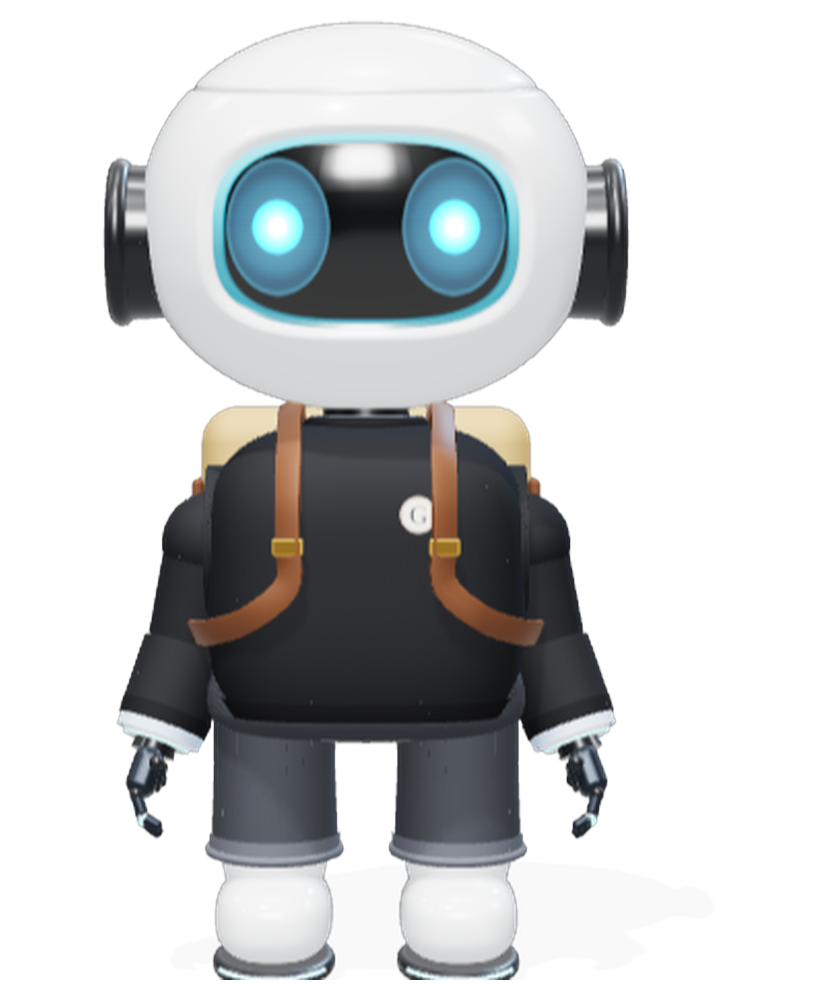
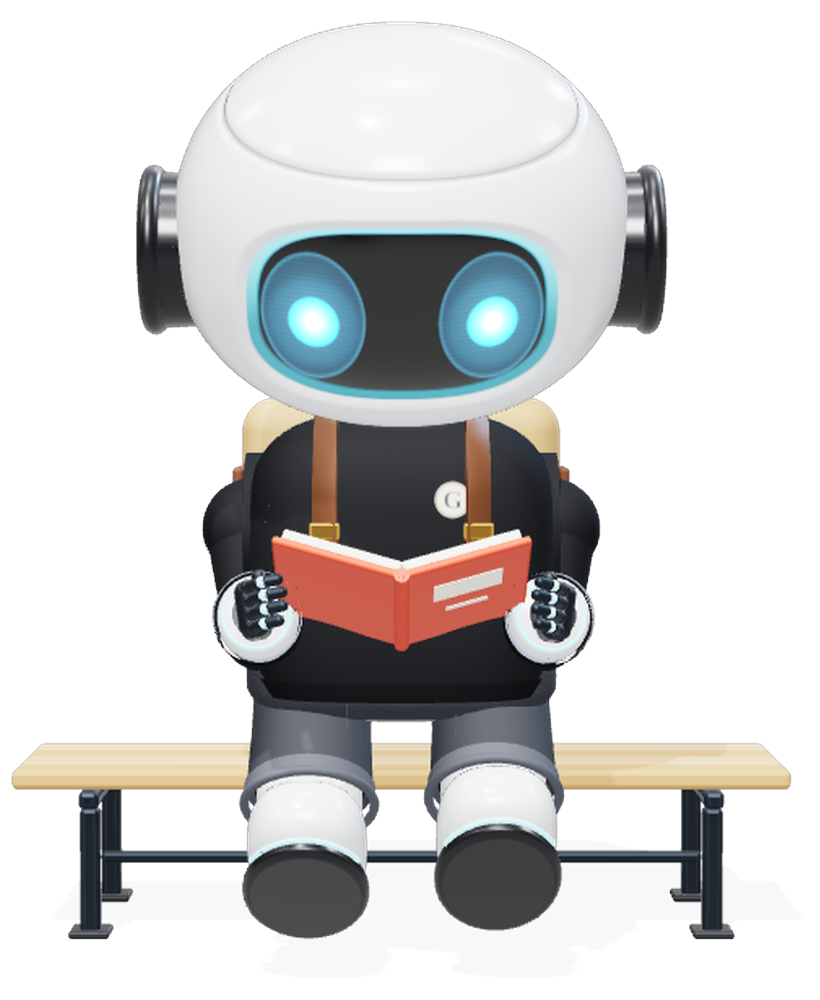
Gizmo now sits on a bench reading a book
He turns pages and glances up by himself, and looks up or waves when
clicked. The jumping and dancing moves are replaced by these calmer
ones, on the home page and in the Gizmo tool.

Claude-Session: https://claude.ai/code/session_01HN9mNrF19oo88FNATmVzzN

diff --git a/gizmo/avatar3d.js b/gizmo/avatar3d.js
@@ -1,4 +1,5 @@
 // Gizmo — real-time 3D avatar (three.js). Built from primitives, lit with a studio environment.
+// He sits on a bench reading a book: he turns pages, glances up, and looks up to wave, nod or talk.
 // API: createAvatar(el, {onClick}) -> { setState, move, look, setTalk, isBusy, dispose }
 import * as THREE from 'three';
 import { RoundedBoxGeometry } from './lib/addons/RoundedBoxGeometry.js';
@@ -77,8 +78,8 @@ export function createAvatar(el, opts = {}) {
   S.environmentIntensity = 0.85;
 
   const cam = new THREE.PerspectiveCamera(30, 1, 0.1, 100);
-  const CAM = opts.framing === 'close' ? { y: 2.05, d: 9.3, look: 1.95 } : { y: 2.4, d: 10.6, look: 2.25 };
-  cam.position.set(0, CAM.y, CAM.d);
+  const CAM = opts.framing === 'close' ? { y: 2.05, d: 9.3, look: 1.95 } : { y: 2.25, d: 9.5, look: 1.92 };
+  cam.position.set(Math.sin(opts.camAngle || 0) * CAM.d, CAM.y, Math.cos(opts.camAngle || 0) * CAM.d);
   cam.lookAt(0, CAM.look, 0);
   let camFollow = 0;
 
@@ -460,6 +461,46 @@ export function createAvatar(el, opts = {}) {
   [[0, 0, .09], [.28, .32, .14], [.62, .7, .21]].forEach(([x, y, r]) => think.add(mesh(new THREE.SphereGeometry(r, 24, 16), M.white, [x, y, 0])));
   think.visible = false;
 
+  // ----- bench and book: Gizmo sits on a bench and reads -----
+  const SEAT = .7;                                                     // top of the seat slats; his legs hang over the front edge
+  const READ = { ax: -.42, az: .34, bend: 1.36, leg: -1.05, knee: .3, tilt: .3 };   // seated pose: arms forward holding the book, legs over the edge, head down
+  const bench = new THREE.Group(); S.add(bench);
+  {
+    const wood = new THREE.MeshStandardMaterial({ color: 0xcfa671, roughness: .68 }), wood2 = new THREE.MeshStandardMaterial({ color: 0xbd9259, roughness: .72 });
+    for (let i = 0; i < 4; i++) bench.add(mesh(new RoundedBoxGeometry(3.25, .085, .185, 3, .028), i % 2 ? wood2 : wood, [0, SEAT - .043, -.69 + i * .2]));   // seat slats
+    for (const sx of [-1, 1]) {
+      bench.add(mesh(new RoundedBoxGeometry(.085, .075, .86, 3, .025), M.gun, [sx * 1.3, SEAT - .123, -.39]));                 // rail under the slats
+      for (const z of [-.74, -.04]) {
+        bench.add(mesh(new RoundedBoxGeometry(.085, SEAT - .16, .085, 3, .025), M.gun, [sx * 1.3, (SEAT - .16) / 2, z]));       // legs
+        bench.add(mesh(new RoundedBoxGeometry(.17, .03, .17, 2, .012), M.dark, [sx * 1.3, .015, z]));                          // feet
+      }
+    }
+    bench.add(mesh(new RoundedBoxGeometry(2.6, .05, .05, 2, .02), M.gun, [0, .26, -.39]));                                      // stretcher
+  }
+  // open book in his hands: placed where the hands are in the reading pose, pages tilted up towards his face
+  const book = new THREE.Group(); torso.add(book);
+  let pagePivot = null; const PAGE_OPEN = .3;
+  {
+    arms.forEach((a, i) => { a.rotation.set(READ.ax, 0, (i ? -1 : 1) * (READ.az - .18)); a.userData.fore.rotation.x = -READ.bend; });
+    root.updateMatrixWorld(true);
+    const hp = arms.map(a => torso.worldToLocal(a.userData.hand.localToWorld(new THREE.Vector3(0, -.1, 0))));
+    const mid = hp[0].clone().add(hp[1]).multiplyScalar(.5), halfW = Math.max(.3, Math.abs(hp[0].x - hp[1].x) / 2 - .035), H = .62;
+    const U = new THREE.Vector3(0, .5, .866), N = new THREE.Vector3(0, .866, -.5), X = new THREE.Vector3(-1, 0, 0);   // page-up, page-normal (towards his face), page-right
+    book.quaternion.setFromRotationMatrix(new THREE.Matrix4().makeBasis(X, U, N));
+    book.position.copy(mid).addScaledVector(U, .09).addScaledVector(N, -.02);
+    const cover = new THREE.MeshStandardMaterial({ color: 0xd4503a, roughness: .55 }), paper = new THREE.MeshStandardMaterial({ color: 0xf6f1e4, roughness: .8 }), label = new THREE.MeshStandardMaterial({ color: 0xf6efe0, roughness: .7 });
+    for (const sd of [-1, 1]) {
+      const half = new THREE.Group(); half.rotation.y = -sd * PAGE_OPEN; book.add(half);
+      half.add(mesh(new RoundedBoxGeometry(halfW, H, .034, 3, .014), cover, [sd * halfW / 2, 0, -.022]));
+      half.add(mesh(new RoundedBoxGeometry(halfW - .035, H - .055, .05, 2, .01), paper, [sd * (halfW / 2 - .008), 0, .02]));
+      if (sd < 0) { half.add(mesh(new RoundedBoxGeometry(halfW * .55, .13, .008, 2, .003), label, [sd * halfW / 2, .1, -.041])); half.add(mesh(new RoundedBoxGeometry(halfW * .34, .028, .008, 2, .003), label, [sd * halfW / 2, -.06, -.041])); }
+    }
+    book.add(mesh(new THREE.CylinderGeometry(.03, .03, H, 16), cover, [0, 0, -.026]));
+    pagePivot = new THREE.Group(); pagePivot.position.z = .05; book.add(pagePivot);
+    pagePivot.add(mesh(new RoundedBoxGeometry(halfW - .05, H - .07, .006, 1, .002), paper, [-(halfW - .05) / 2, 0, 0]));
+    pagePivot.visible = false;
+  }
+
   // collect clickable meshes
   const hitList = [];
   root.traverse(o => { if (o.isMesh) hitList.push(o); });
@@ -469,39 +510,29 @@ export function createAvatar(el, opts = {}) {
   let look = { x: 0, y: 0 }, lookS = { x: 0, y: 0 };
   let blinkT = 0, nextBlink = 2 + Math.random() * 3, wink = -1, dbl = false;
   let current = null; // {name, t0, dur, fn, resolve}
+  let upS = 0;        // smoothed "looking up from the book" amount
   const clock = new THREE.Clock();
   let T = 0; // animation time: advances at most 50ms per frame, so moves always play in full
 
   // ---------- moves: fn(p, P) writes into pose P ----------
+  // Gizmo stays seated with his book. The older jumping and dancing names are kept so existing callers still work,
+  // but they now map to calm reading gestures: turning a page, or looking up from the book with a smile.
+  const pageTurn = { dur: 1.7, fn: (p, P) => { P.page = p; } };
+  const lookUp = { dur: 2.6, fn: (p, P) => { const u = bump(p, 0, 1) ** .35; P.up = Math.max(P.up, u); P.joy = p > .22 && p < .78; P.head.z += Math.sin(p * PI * 2) * .06 * u; P.head.x += (p > .25 && p < .75 ? Math.sin((p - .25) * PI * 4) * .08 : 0); } };
   const MOVES = {
-    hop: { dur: .95, fn: (p, P) => { const j = jump(p, .16, .86); P.y += j * .85; const sq = bump(p, 0, .18) + bump(p, .84, 1); P.sy -= sq * .14; P.sx += sq * .1;
-      P.armL.z += j * 1.6; P.armR.z -= j * 1.6; P.legL.x -= j * .35; P.legR.x -= j * .35; P.joy = true; } },
-    skip: { dur: 2.0, fn: (p, P) => { const out = p < .5, q = out ? p / .5 : (p - .5) / .5; P.x += (out ? q : 1 - q) * .9;
-      P.ry += (out ? 1 : -1) * .55 * bump(q, 0, 1) ** .3; const hops = Math.abs(Math.sin(q * PI * 4)); P.y += hops * .42;
-      const k = Math.sin(q * PI * 4); P.legL.x += k * .55; P.legR.x -= k * .55; P.armL.x -= k * .7; P.armR.x += k * .7; P.joy = true; } },
-    dance: { dur: 3.2, fn: (p, P) => { const t = p * 3.2, b = Math.sin(t * PI * 2 * 1.25); const fin = bump(p, .86, 1);
-      P.ry += b * .38 * (1 - fin); P.x += Math.sin(t * PI * 1.25) * .25 * (1 - fin); P.y += Math.abs(b) * .12 + jump(p, .86, 1) * .5;
-      P.rz += b * .06; P.head.z -= b * .18; P.head.x += Math.abs(Math.cos(t * PI * 2.5)) * .12;
-      P.armL.z += (1.1 + Math.sin(t * PI * 2.5) * .8) * (1 - fin) + fin * 2.2; P.armR.z -= (1.1 + Math.cos(t * PI * 2.5) * .8) * (1 - fin) + fin * 2.2;
-      P.legL.x += Math.max(0, b) * .5; P.legR.x += Math.max(0, -b) * .5; P.joy = true; } },
-    spin: { dur: 1.3, fn: (p, P) => { P.ry += ease.io(p) * PI * 2; P.y += jump(p, .05, .95) * .55; const a = bump(p, 0, 1); P.armL.z += a * 1.3; P.armR.z -= a * 1.3; P.joy = true; } },
-    flip: { dur: 1.5, fn: (p, P) => { const crouch = bump(p, 0, .2), land = bump(p, .82, 1); P.sy -= (crouch + land) * .16; P.sx += (crouch + land) * .1;
-      const air = clamp((p - .18) / .64, 0, 1); P.y += Math.sin(air * PI) * 1.25; P.rx -= ease.io(air) * PI * 2;
-      const tuck = bump(air, 0, 1); P.legL.x -= tuck * 1.0; P.legR.x -= tuck * 1.0; P.armL.z += tuck * 2.3; P.armR.z -= tuck * 2.3; P.joy = true; } },
-    wave: { dur: 1.8, fn: (p, P) => { const up = bump(p, 0, 1) ** .4; P.armR.z -= up * 2.5; P.armR.x -= up * .2; P.foreR = Math.sin(p * PI * 6) * .5 * up;
-      P.head.z += up * .14; P.wink = 0; } },
-    shimmy: { dur: 1.4, fn: (p, P) => { const s = Math.sin(p * PI * 14) * bump(p, 0, 1) ** .3; P.ry += s * .28; P.x += s * .08; P.head.z -= s * .1; P.armL.x += s * .6; P.armR.x -= s * .6; P.joy = true; } },
-    moonwalk: { dur: 2.4, fn: (p, P) => { const q = p < .5 ? ease.io(p / .5) : 1 - ease.io((p - .5) / .5); P.x -= q * .9; P.ry += .5 * bump(p, 0, 1) ** .3;
-      const s = Math.sin(p * PI * 10); P.legL.x += Math.max(0, s) * .3; P.legR.x += Math.max(0, -s) * .3; P.footL = Math.max(0, s) * .14; P.footR = Math.max(0, -s) * .14;
-      P.rz += .04 * bump(p, 0, 1); P.armL.x += s * .3; P.armR.x -= s * .3; P.joy = true; } },
-    nod: { dur: 1.2, fn: (p, P) => { P.head.x += Math.sin(p * PI * 2) * .18 * bump(p, 0, 1); } },
-    tilt: { dur: 1.5, fn: (p, P) => { P.head.z += bump(p, 0, 1) * .28; } },
-    glance: { dur: 1.6, fn: (p, P) => { P.lookX = Math.sin(p * PI * 2) * .9; P.head.y += Math.sin(p * PI * 2) * .25; } },
+    page: pageTurn, lookup: lookUp,
+    hop: lookUp, dance: lookUp, shimmy: lookUp, spin: pageTurn, flip: pageTurn, skip: pageTurn, moonwalk: pageTurn,
+    wave: { dur: 2.2, fn: (p, P) => { const u = bump(p, 0, 1) ** .4; P.up = Math.max(P.up, u); P.armR.z -= u * 2.0; P.armR.x += u * .3; P.bendR = lerp(READ.bend, .55, u);
+      P.foreR = Math.sin(p * PI * 6) * .5 * u; P.head.z += u * .12; P.wink = u > .5 ? 0 : -1; } },
+    nod: { dur: 1.3, fn: (p, P) => { const u = bump(p, 0, 1) ** .4; P.up = Math.max(P.up, u * .85); P.head.x += Math.sin(p * PI * 2) * .16 * u; } },
+    tilt: { dur: 1.6, fn: (p, P) => { const u = bump(p, 0, 1); P.up = Math.max(P.up, u ** .4 * .85); P.head.z += u * .26; } },
+    glance: { dur: 1.8, fn: (p, P) => { const u = bump(p, 0, 1) ** .4; P.up = Math.max(P.up, u * .8); P.lookX = Math.sin(p * PI * 2) * .8; P.head.y += Math.sin(p * PI * 2) * .22; } },
   };
 
   function basePose(t) {
     return { x: 0, y: 0, rx: 0, ry: 0, rz: 0, sx: 1, sy: 1,
-      head: { x: 0, y: 0, z: 0 }, armL: { x: 0, z: 0 }, armR: { x: 0, z: 0 }, legL: { x: 0 }, legR: { x: 0 },
+      head: { x: 0, y: 0, z: 0 }, armL: { x: READ.ax, z: -READ.az }, armR: { x: READ.ax, z: READ.az }, legL: { x: READ.leg }, legR: { x: READ.leg },
+      bendL: READ.bend, bendR: READ.bend, page: 0, up: 0,                 // elbow bends, page turn 0..1, how far he looks up from the book 0..1
       foreR: 0, footL: 0, footR: 0, joy: false, wink: -1, lookX: null, lookY: null };
   }
 
@@ -520,11 +551,11 @@ export function createAvatar(el, opts = {}) {
     const P = basePose(t);
     // idle breathing + sway
     if (!reduce) {
-      P.y += Math.sin(t * 1.7) * .03;
-      P.sy += Math.sin(t * 1.7) * .008;
-      P.armL.z += Math.sin(t * 1.7) * .04; P.armR.z -= Math.sin(t * 1.7 + .4) * .04;
+      P.sy += Math.sin(t * 1.7) * .006;                                                     // breathing
+      P.legL.x += Math.sin(t * 1.35) * .09; P.legR.x += Math.sin(t * 1.35 + PI) * .09;       // feet swing gently off the bench
     }
     // states
+    if (state !== 'idle') P.up = 1;                                                          // talking, listening or thinking: eyes off the book
     if (state === 'listening') { P.head.z += .14; P.head.x -= .05; }
     if (state === 'thinking') { P.head.z -= .1; P.head.x -= .12; P.lookX = .55; P.lookY = .6; }
     if (state === 'speaking' && !reduce) { P.head.x += Math.sin(t * 9) * .035; P.head.z += Math.sin(t * 4.5) * .03; }
@@ -534,6 +565,18 @@ export function createAvatar(el, opts = {}) {
       current.fn(p, P);
       if (p >= 1) { const c = current; current = null; c.resolve(); }
     }
+    // reading by himself: every so often he turns a page, and now and then glances up
+    if (!current && !reduce && state === 'idle') {
+      const c = (t + 2.6) % 7.6; if (c > 5.7) P.page = Math.min(1, (c - 5.7) / 1.7);
+      const g = (t + 5.2) % 13.4; if (g > 10.6 && g < 12.8) P.up = Math.max(P.up, bump((g - 10.6) / 2.2, 0, 1) ** .4 * .9);
+    }
+    upS = lerp(upS, clamp(P.up, 0, 1), 1 - Math.pow(.0008, dt));
+    const rd = 1 - upS;                                                                      // 1 = head down in the book
+    P.head.x += READ.tilt * rd;
+    if (P.lookY == null) P.lookY = lerp(look.y, -.7, rd);
+    if (P.lookX == null && rd > .6 && !reduce) P.lookX = lerp(.26, -.26, (t * .42) % 1) * rd;   // eyes run along the lines
+    if (P.page > 0 && P.page < 1) { const pg = P.page; P.armR.z += bump(pg, .02, .96) * .42; P.armR.x -= bump(pg, 0, .9) * .1; P.bendR += bump(pg, 0, .9) * .24; }
+    if (pagePivot) { const pg = P.page, on = pg > .08 && pg < .97; pagePivot.visible = on; if (on) pagePivot.rotation.y = lerp(PAGE_OPEN, PI - PAGE_OPEN, ease.io(clamp((pg - .1) / .72, 0, 1))); }
     // look smoothing
     const tx = P.lookX != null ? P.lookX : look.x, ty = P.lookY != null ? P.lookY : look.y;
     lookS.x = lerp(lookS.x, tx, 1 - Math.pow(.001, dt)); lookS.y = lerp(lookS.y, ty, 1 - Math.pow(.001, dt));
@@ -551,16 +594,16 @@ export function createAvatar(el, opts = {}) {
     // knees: bend when a leg swings forward, when Gizmo crouches or lands, and to lift the heel
     const crouch = Math.max(0, 1 - P.sy) * 4;
     [[legs[0], P.legL.x, P.footL], [legs[1], P.legR.x, P.footR]].forEach(([lg, lx, lift]) => {
-      const k = .04 + Math.max(0, -lx) * 1.1 + crouch + lift * 3.2;
-      lg.userData.knee.rotation.x = lerp(lg.userData.knee.rotation.x, Math.min(k, 1.9), 1 - Math.pow(.0005, dt));
+      const k = READ.knee + (lx - READ.leg) * -.6 + crouch + lift * 3.2;                     // seated: shins hang down from the knee
+      lg.userData.knee.rotation.x = lerp(lg.userData.knee.rotation.x, clamp(k, 0, 1.9), 1 - Math.pow(.0005, dt));
     });
     // elbows, wrists and fingers: arms bend more as they rise, hands open when happy, fingers flex gently at rest
     arms.forEach((a, i) => {
       const u = a.userData, raise = Math.abs(i ? P.armR.z : P.armL.z), swing = i ? P.armR.x : P.armL.x;
-      const bend = .22 + Math.min(1.4, raise) * .32 + Math.max(0, -swing) * .3 + (reduce ? 0 : Math.sin(t * 1.7 + i) * .03);
+      const bend = (i ? P.bendR : P.bendL) + (reduce ? 0 : Math.sin(t * 1.7 + i) * .012);
       u.fore.rotation.x = lerp(u.fore.rotation.x, -bend, 1 - Math.pow(.002, dt));
       if (i === 0) u.fore.rotation.z = lerp(u.fore.rotation.z, u.sx * .12, .2);
-      const open = P.joy || (i === 1 && P.foreR !== 0);
+      const open = i === 1 && P.foreR !== 0;                                                 // only the waving hand opens; the other keeps hold of the book
       const curl = open ? .12 : .5 + (reduce ? 0 : Math.sin(t * 1.3 + i * 2) * .1);
       u.fingers.forEach((f, k) => {
         const c = lerp(f.rotation.z / -u.sx || 0, curl * (1 + k * .06), 1 - Math.pow(.003, dt));

diff --git a/index.html b/index.html
@@ -610,7 +610,7 @@ body{color:var(--ink)}
     <div class="wrap gz-wrap">
       <h2 id="trainH">Create quizzes from material to help train staff</h2>
       <div class="gz-box">
-        <div class="gz-bot" id="gzBot" role="button" tabindex="0" aria-label="Gizmo, a friendly 3D robot. Click him to make him dance."></div>
+        <div class="gz-bot" id="gzBot" role="button" tabindex="0" aria-label="Gizmo, a friendly 3D robot, sitting on a bench reading a book. Click him and he looks up."></div>
       </div>
       <a class="btn go" href="gizmo/">Open the tool</a>
       <p class="gz-note">A concept demo. It doesn&rsquo;t replace your organisation&rsquo;s mandatory training or sign-off.</p>
@@ -759,19 +759,19 @@ form.addEventListener('submit',function(e){e.preventDefault();var t=inp.value.tr
 })();
 </script>
 <script type="module">
-// Gizmo on the home page: the 3D figure loads when its box comes near the screen, waves, then runs through his moves.
+// Gizmo on the home page: the 3D figure loads when its box comes near the screen. He sits on a bench reading,
+// turns pages and glances up by himself, and looks up or waves when clicked.
 const el = document.getElementById('gzBot');
 if (el) {
-  const MOVES = ['wave', 'hop', 'dance', 'shimmy', 'flip', 'spin', 'glance'];
-  let AV = null, started = false, i = 0, timer = null;
-  const next = () => { if (!AV) return; AV.move(MOVES[i++ % MOVES.length]); };
-  const tap = () => { if (AV && !AV.isBusy()) AV.move(['dance', 'flip', 'spin', 'hop'][Math.floor(Math.random() * 4)]); };
+  const TAPS = ['wave', 'lookup', 'page'];
+  let AV = null, started = false, i = 0;
+  const tap = () => { if (AV && !AV.isBusy()) AV.move(TAPS[i++ % TAPS.length]); };
   const still = () => { const img = document.createElement('img'); img.className = 'still'; img.src = 'gizmo/gizmo-still.png'; img.alt = ''; el.appendChild(img); };
   const start = async () => {
     if (started) return; started = true;
-    try { const m = await import('./gizmo/avatar3d.js?v=20261114'); AV = m.createAvatar(el, { onClick: tap }); } catch (e) { AV = null; }
+    try { const m = await import('./gizmo/avatar3d.js?v=20261116'); AV = m.createAvatar(el, { onClick: tap }); } catch (e) { AV = null; }
     if (!AV) { still(); return; }
-    setTimeout(next, 600); timer = setInterval(() => { if (!document.hidden && !AV.isBusy()) next(); }, 4200);
+    setTimeout(() => AV.move('wave'), 700);
   };
   el.addEventListener('keydown', e => { if (e.key === 'Enter' || e.key === ' ') { e.preventDefault(); tap(); } });
   if ('IntersectionObserver' in window) { const io = new IntersectionObserver(es => { if (es.some(x => x.isIntersecting)) { io.disconnect(); start(); } }, { rootMargin: '600px 0px' }); io.observe(el); }

diff --git a/gizmo/learn.js b/gizmo/learn.js
@@ -25,7 +25,7 @@ const vsw = $('#voiceSw'); vsw.setAttribute('aria-checked', voiceOn);
 vsw.addEventListener('click', () => { voiceOn = !voiceOn; vsw.setAttribute('aria-checked', voiceOn); try { localStorage.setItem('learn.voice', voiceOn ? 'on' : 'off'); } catch (e) { } if (!voiceOn && window.speechSynthesis) speechSynthesis.cancel(); });
 ['pointerdown', 'keydown'].forEach(ev => addEventListener(ev, () => { gestured = true; }, { once: true, capture: true }));
 (async () => {
-  try { const m = await import('./avatar3d.js?v=20261114'); AV = m.createAvatar(bot, { onClick: tap, manual: !!window.__GIZMO_MANUAL }); window.__gizmoAV = AV; } catch (e) { AV = null; }
+  try { const m = await import('./avatar3d.js?v=20261116'); AV = m.createAvatar(bot, { onClick: tap, manual: !!window.__GIZMO_MANUAL }); window.__gizmoAV = AV; } catch (e) { AV = null; }
   if (!AV) { const img = document.createElement('img'); img.className = 'still'; img.src = 'gizmo-still.png'; img.alt = ''; bot.appendChild(img); bot.addEventListener('click', tap); }
   else if (!window.__GIZMO_MANUAL) setTimeout(() => move('wave'), 500);
 })();
@@ -34,10 +34,10 @@ document.addEventListener('pointermove', e => {
   if (!AV || reduce) return; const r = bot.getBoundingClientRect(); if (!r.width) return;
   AV.look((e.clientX - (r.left + r.width / 2)) / (innerWidth / 2), -(e.clientY - (r.top + r.height * .3)) / (innerHeight / 2));
 });
-const WORDS = { hop: 'Boing!', dance: 'Nailed it!', spin: 'Wheee!', flip: 'Ta-da!', wave: 'Hey there!', shimmy: 'Shake it!', nod: 'Yes!', tilt: 'Hmm…' };
+const WORDS = { dance: 'Nailed it!', lookup: 'Good book!', page: 'Next page…', wave: 'Hey there!', nod: 'Yes!', tilt: 'Hmm…' };
 function pop(t) { bubble.textContent = t; bubble.classList.add('on'); clearTimeout(pop.t); pop.t = setTimeout(() => bubble.classList.remove('on'), 1400); }
 function move(n, word = true) { if (word && WORDS[n]) pop(WORDS[n]); return AV && !reduce ? AV.move(n) : Promise.resolve(); }
-const SEQ = ['hop', 'dance', 'spin', 'flip', 'wave', 'shimmy']; let si = 0;
+const SEQ = ['wave', 'lookup', 'page', 'glance']; let si = 0;
 function tap() { if (AV && AV.isBusy()) return; move(SEQ[si++ % SEQ.length]); }
 let voice = null;
 function pickVoice() { if (!window.speechSynthesis) return; const vs = speechSynthesis.getVoices(); voice = vs.find(v => /Google UK English Female|Google US English|Samantha|Microsoft (Libby|Sonia|Aria|Jenny)/.test(v.name)) || vs.find(v => /^en[-_]GB/i.test(v.lang)) || vs.find(v => /^en/i.test(v.lang)) || null; }

diff --git a/gizmo/index.html b/gizmo/index.html
@@ -171,7 +171,7 @@ h3{font-size:1rem;margin:0 0 .3rem;font-weight:700}
 </header>
 <div class="wrap">
   <aside class="pane" aria-label="Gizmo">
-    <div class="bot" id="bot" role="button" tabindex="0" aria-label="Gizmo, a friendly 3D robot. Click him to make him dance."><span class="bubble" id="bubble"></span></div>
+    <div class="bot" id="bot" role="button" tabindex="0" aria-label="Gizmo, a friendly 3D robot, sitting on a bench reading a book. Click him and he looks up."><span class="bubble" id="bubble"></span></div>
     <p class="say" id="say" aria-live="polite"><b>Hi, I&rsquo;m Gizmo.</b> Give me your policies and training notes and tell me what the training is for. I&rsquo;ll turn them into a short course with quizzes.</p>
     <p class="meta">Concept demo. Everything runs in this browser and your documents never leave the device. Not a replacement for mandatory training.</p>
   </aside>
@@ -179,6 +179,6 @@ h3{font-size:1rem;margin:0 0 .3rem;font-weight:700}
 </div>
 <input id="fileIn" type="file" multiple accept=".pdf,.docx,.epub,.html,.htm,.md,.markdown,.txt,.text,.rtf" hidden>
 <div class="toast" id="toast" role="status"></div>
-<script type="module" src="learn.js?v=20261114"></script>
+<script type="module" src="learn.js?v=20261116"></script>
 </body>
 </html>
